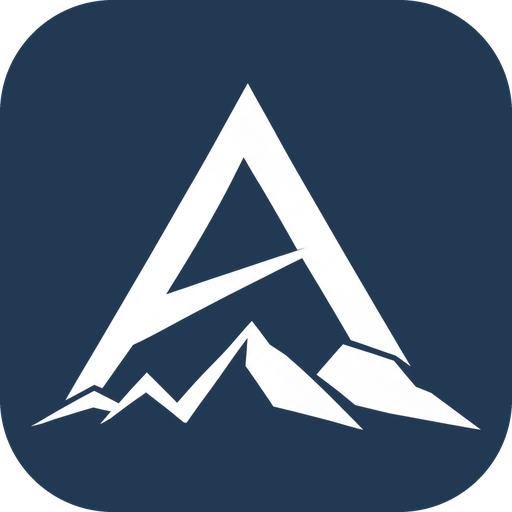
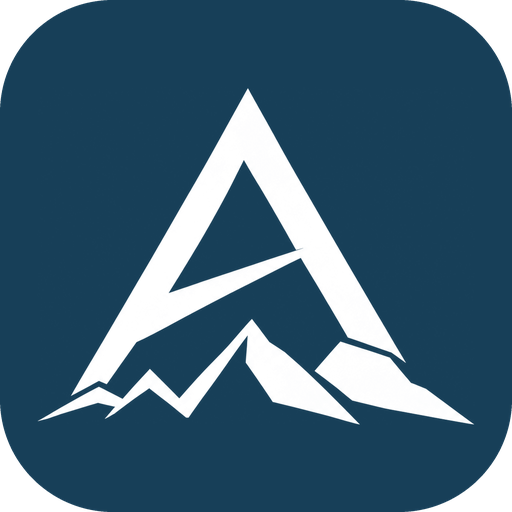
Apply Aventa brand guidelines and fix hero padding on mobile
Mobile fix: .hero used the padding shorthand (96px 0 88px), which
overrode the horizontal padding .wrap sets. On narrow screens the hero
kicker, headline, and lede ran flush to the left edge. Switched to
padding-top/padding-bottom so .wrap's 24px gutters survive.

Brand guidelines v1.0:

- Colors from section 04 - Aventa Navy #173F58, Aventa Sage #8A9B78,
  Ink #26343D, Mist #F3F5F4, Warm White #F7F4EE - replacing the ad hoc
  navy. White dominates, navy carries headings and anchor elements, sage
  appears only as a small accent on the service card icons.
- Type from section 05 - Montserrat (SemiBold headlines, Medium subheads)
  with Inter for body. Drops Fraunces, which the guide rules out.
- Nav now uses the real horizontal lockup at 183px wide, clearing the
  180px digital minimum, and falls back to the standalone mark in the
  compact mobile nav as section 06 directs. The previous nav retyped
  AVENTA in Inter, which section 05 forbids.
- Footer becomes an Aventa Navy field carrying the white reverse
  horizontal lockup; 404 page moves to Warm White with the stacked
  lockup at 200px wide.
- All logo artwork regenerated from the new masters in the guidelines
  package and recolored to the exact brand navy. Adds the horizontal
  lockup and wordmark assets; drops the sage lockup, which is not an
  approved configuration.

Contrast checked: all text pairs meet WCAG AA, and the sage icon chips
meet 3:1 for non-text.
[…]

diff --git a/index.html b/index.html
@@ -18,19 +18,23 @@
 <link rel="apple-touch-icon" href="/assets/apple-touch-icon.png">
 <link rel="preconnect" href="https://fonts.googleapis.com">
 <link rel="preconnect" href="https://fonts.gstatic.com" crossorigin>
-<link href="https://fonts.googleapis.com/css2?family=Fraunces:opsz,wght@9..144,450;9..144,560;9..144,640&family=Inter:wght@400;500;600&display=swap" rel="stylesheet">
+<link href="https://fonts.googleapis.com/css2?family=Inter:wght@400;500;600&family=Montserrat:wght@500;600&display=swap" rel="stylesheet">
 <style>
   :root{
-    --paper:#FAF8F4;
-    --ink:#17222E;
-    --muted:#5C6874;
-    --brand:#223954;
-    --brand-deep:#16273B;
-    --sage:#879476;
-    --tint:#EDF1F5;
-    --line:#E1DED6;
+    /* Brand palette — Aventa Consulting Brand Guidelines v1.0, section 04 */
+    --navy:#173F58;      /* Aventa Navy — primary identity, headings, dark fields */
+    --sage:#8A9B78;      /* Aventa Sage — accent, secondary graphics */
+    --ink:#26343D;       /* Ink — body text and utility copy */
+    --mist:#F3F5F4;      /* Mist — panels, dividers, quiet backgrounds */
+    --warm:#F7F4EE;      /* Warm White — optional editorial background */
+    /* derived working tones */
+    --paper:#FFFFFF;
+    --navy-deep:#0F2C40;
+    --muted:#5E6E77;
+    --line:#E4E9EA;
+    --on-navy:#C7D3DA;
     --max:1080px;
-    --serif:"Fraunces",Georgia,serif;
+    --display:"Montserrat",-apple-system,"Segoe UI",Arial,sans-serif;
     --sans:"Inter",-apple-system,BlinkMacSystemFont,"Segoe UI",sans-serif;
   }
   *{margin:0;padding:0;box-sizing:border-box}
@@ -38,29 +42,31 @@
   @media (prefers-reduced-motion:reduce){html{scroll-behavior:auto}}
   body{background:var(--paper);color:var(--ink);font-family:var(--sans);font-size:17px;line-height:1.65;-webkit-font-smoothing:antialiased}
   .wrap{max-width:var(--max);margin:0 auto;padding:0 24px}
-  h1,h2,h3{font-family:var(--serif);font-weight:560;letter-spacing:-0.01em;line-height:1.15}
-  a{color:var(--brand);text-decoration:none}
+  h1,h2{font-family:var(--display);font-weight:600;letter-spacing:-0.01em;line-height:1.2;color:var(--navy)}
+  h3{font-family:var(--display);font-weight:500;line-height:1.3;color:var(--navy)}
+  a{color:var(--navy);text-decoration:none}
   a:hover{text-decoration:underline}
  
   /* ---------- nav ---------- */
-  header{position:sticky;top:0;z-index:50;background:rgba(250,248,244,.92);backdrop-filter:blur(8px);border-bottom:1px solid var(--line)}
-  .nav{display:flex;align-items:center;justify-content:space-between;height:68px}
-  .logo{display:flex;align-items:center;gap:12px;color:var(--ink);text-decoration:none}
+  header{position:sticky;top:0;z-index:50;background:rgba(255,255,255,.92);backdrop-filter:blur(8px);border-bottom:1px solid var(--line)}
+  .nav{display:flex;align-items:center;justify-content:space-between;height:88px}
+  @media(max-width:720px){.nav{height:68px}}
+  .logo{display:flex;align-items:center;text-decoration:none}
   .logo:hover{text-decoration:none}
-  .logo img{height:34px;width:auto;flex:none;display:block}
-  .logo span{font-size:1.05rem;font-weight:500;letter-spacing:.24em;text-transform:uppercase;line-height:1}
-  @media(max-width:420px){.logo span{font-size:.95rem;letter-spacing:.18em}}
+  /* 183px wide clears the 180px digital minimum for the full lockup */
+  .logo img{height:55px;width:auto;flex:none;display:block}
+  @media(max-width:720px){.logo img{height:40px}}
   .nav-links{display:flex;align-items:center;gap:28px;font-size:.92rem;font-weight:500}
   .nav-links a:not(.btn){color:var(--ink)}
-  .nav-links a:not(.btn):hover{color:var(--brand);text-decoration:none}
-  .btn{display:inline-block;background:var(--brand);color:#fff;padding:11px 22px;border-radius:8px;font-weight:600;font-size:.95rem;border:none;cursor:pointer;transition:background .15s ease}
-  .btn:hover{background:var(--brand-deep);text-decoration:none}
+  .nav-links a:not(.btn):hover{color:var(--navy);text-decoration:none}
+  .btn{display:inline-block;background:var(--navy);color:#fff;padding:11px 22px;border-radius:8px;font-weight:600;font-size:.95rem;border:none;cursor:pointer;transition:background .15s ease}
+  .btn:hover{background:var(--navy-deep);text-decoration:none}
   .nav .btn{padding:9px 18px;font-size:.88rem}
   @media(max-width:720px){.nav-links a:not(.btn){display:none}}
  
   /* ---------- hero ---------- */
-  .hero{padding:96px 0 88px}
-  .kicker{display:inline-block;font-size:.8rem;font-weight:600;letter-spacing:.12em;text-transform:uppercase;color:var(--brand);margin-bottom:20px}
+  .hero{padding-top:96px;padding-bottom:88px}
+  .kicker{display:inline-block;font-size:.8rem;font-weight:600;letter-spacing:.12em;text-transform:uppercase;color:var(--navy);margin-bottom:20px}
   .hero h1{font-size:clamp(2.3rem,5.4vw,3.6rem);max-width:15ch}
   .hero p.lede{margin-top:24px;font-size:1.18rem;color:var(--muted);max-width:52ch}
   .hero-cta{margin-top:36px;display:flex;gap:16px;align-items:center;flex-wrap:wrap}
@@ -69,7 +75,7 @@
  
   /* ---------- sections ---------- */
   section{padding:84px 0}
-  .band{background:var(--tint)}
+  .band{background:var(--mist)}
   .sec-head{max-width:56ch;margin-bottom:48px}
   .sec-head h2{font-size:clamp(1.7rem,3.4vw,2.3rem)}
   .sec-head p{margin-top:14px;color:var(--muted)}
@@ -79,24 +85,24 @@
   .card{background:#fff;border:1px solid var(--line);border-radius:12px;padding:28px 26px}
   .card h3{font-size:1.18rem;margin-bottom:10px}
   .card p{font-size:.95rem;color:var(--muted)}
-  .card .glyph{width:38px;height:38px;border-radius:9px;background:var(--tint);color:var(--brand);display:flex;align-items:center;justify-content:center;margin-bottom:18px;font-size:1.1rem}
+  .card .glyph{width:38px;height:38px;border-radius:9px;background:var(--sage);color:var(--navy);display:flex;align-items:center;justify-content:center;margin-bottom:18px;font-size:1.1rem}
  
   /* approach */
   .steps{display:grid;grid-template-columns:repeat(auto-fit,minmax(240px,1fr));gap:20px;counter-reset:step}
-  .step{padding:28px 26px;border-left:2px solid var(--brand);background:#fff;border-radius:0 12px 12px 0}
-  .step .n{font-family:var(--serif);font-size:2rem;color:var(--brand);font-weight:560}
+  .step{padding:28px 26px;border-left:2px solid var(--navy);background:#fff;border-radius:0 12px 12px 0}
+  .step .n{font-family:var(--display);font-size:2rem;color:var(--navy);font-weight:600}
   .step h3{font-size:1.12rem;margin:8px 0 10px}
   .step p{font-size:.95rem;color:var(--muted)}
  
   /* about */
   .about{display:grid;grid-template-columns:280px 1fr;gap:56px;align-items:start}
   @media(max-width:760px){.about{grid-template-columns:1fr}}
-  .headshot{aspect-ratio:4/5;border-radius:12px;background:linear-gradient(160deg,var(--tint),#D9E2EC);border:1px solid var(--line);display:flex;align-items:center;justify-content:center;color:var(--muted);font-size:.85rem;text-align:center;padding:20px}
+  .headshot{aspect-ratio:4/5;border-radius:12px;background:linear-gradient(160deg,#FFFFFF,#E4EAEC);border:1px solid var(--line);display:flex;align-items:center;justify-content:center;color:var(--muted);font-size:.85rem;text-align:center;padding:20px}
   .about h2{font-size:clamp(1.7rem,3.4vw,2.3rem);margin-bottom:18px}
-  .about p{margin-bottom:16px;color:#39434F}
+  .about p{margin-bottom:16px;color:var(--ink)}
   .certs{margin-top:22px;display:flex;gap:10px;flex-wrap:wrap}
-  .cert{font-size:.8rem;font-weight:600;background:var(--tint);color:var(--brand-deep);border:1px solid #D3DDE7;border-radius:999px;padding:6px 14px}
-  .cert-soon{background:transparent;border-style:dashed;color:var(--muted)}
+  .cert{font-size:.8rem;font-weight:600;background:var(--mist);color:var(--navy);border:1px solid var(--line);border-radius:999px;padding:6px 14px}
+  .cert-soon{background:transparent;border-style:dashed;border-color:var(--sage);color:var(--muted)}
  
   /* contact */
   .contact-grid{display:grid;grid-template-columns:1fr 1.2fr;gap:56px}
@@ -108,16 +114,16 @@
   .field{display:grid;gap:6px}
   label{font-size:.85rem;font-weight:600}
   input,textarea{font-family:var(--sans);font-size:.95rem;padding:12px 14px;border:1px solid var(--line);border-radius:8px;background:#fff;color:var(--ink);width:100%}
-  input:focus,textarea:focus{outline:2px solid var(--brand);outline-offset:1px;border-color:transparent}
+  input:focus,textarea:focus{outline:2px solid var(--navy);outline-offset:1px;border-color:transparent}
   textarea{min-height:130px;resize:vertical}
   .row2{display:grid;grid-template-columns:1fr 1fr;gap:16px}
   @media(max-width:560px){.row2{grid-template-columns:1fr}}
   .form-note{font-size:.8rem;color:var(--muted)}
  
   /* footer */
-  footer{border-top:1px solid var(--line);padding:40px 0;font-size:.85rem;color:var(--muted)}
-  .foot{display:flex;justify-content:space-between;gap:24px;flex-wrap:wrap;align-items:center}
-  .foot-logo{height:88px;width:auto;display:block}
+  footer{background:var(--navy);color:var(--on-navy);padding:48px 0;font-size:.85rem}
+  .foot{display:flex;justify-content:space-between;gap:28px;flex-wrap:wrap;align-items:center}
+  .foot-logo{width:260px;max-width:100%;height:auto;display:block}
   .foot-meta{display:flex;flex-direction:column;gap:4px;text-align:right}
   @media(max-width:560px){.foot{flex-direction:column;align-items:flex-start}.foot-meta{text-align:left}}
 </style>
@@ -127,8 +133,10 @@
 <header>
   <div class="wrap nav">
     <a class="logo" href="#top" aria-label="Aventa Consulting home">
-      <img src="/assets/logo-mark.png" alt="" aria-hidden="true">
-      <span>Aventa</span>
+      <picture>
+        <source media="(min-width:721px)" srcset="/assets/logo-horizontal.png">
+        <img src="/assets/logo-mark.png" alt="" aria-hidden="true">
+      </picture>
     </a>
     <nav class="nav-links" aria-label="Primary">
       <a href="#services">Services</a>
@@ -283,7 +291,7 @@
  
 <footer>
   <div class="wrap foot">
-    <img class="foot-logo" src="/assets/logo-lockup.png" alt="Aventa Consulting" width="462" height="480">
+    <img class="foot-logo" src="/assets/logo-horizontal-light.png" alt="Aventa Consulting" width="900" height="271">
     <div class="foot-meta">
       <span>© 2026 Aventa Consulting LLC. All rights reserved.</span>
       <span>aventaconsulting.com</span>

diff --git a/404.html b/404.html
@@ -6,17 +6,17 @@
 <title>Page not found — Aventa Consulting</title>
 <link rel="icon" type="image/png" sizes="32x32" href="/assets/favicon-32.png">
 <link rel="icon" type="image/png" sizes="16x16" href="/assets/favicon-16.png">
-<link href="https://fonts.googleapis.com/css2?family=Fraunces:opsz,wght@9..144,560&family=Inter:wght@400;600&display=swap" rel="stylesheet">
+<link href="https://fonts.googleapis.com/css2?family=Inter:wght@400;600&family=Montserrat:wght@600&display=swap" rel="stylesheet">
 <style>
-  body{margin:0;min-height:100vh;display:flex;align-items:center;justify-content:center;background:#FAF8F4;color:#17222E;font-family:"Inter",sans-serif;text-align:center;padding:24px}
-  h1{font-family:"Fraunces",Georgia,serif;font-size:2.4rem;margin:0 0 12px}
-  p{color:#5C6874;margin:0 0 28px}
-  a{display:inline-block;background:#223954;color:#fff;padding:11px 22px;border-radius:8px;font-weight:600;text-decoration:none}
+  body{margin:0;min-height:100vh;display:flex;align-items:center;justify-content:center;background:#F7F4EE;color:#26343D;font-family:"Inter",sans-serif;text-align:center;padding:24px}
+  h1{font-family:"Montserrat",Arial,sans-serif;font-weight:600;font-size:2.2rem;color:#173F58;margin:0 0 12px}
+  p{color:#5E6E77;margin:0 0 28px}
+  a{display:inline-block;background:#173F58;color:#fff;padding:11px 22px;border-radius:8px;font-weight:600;text-decoration:none}
 </style>
 </head>
 <body>
 <div>
-  <img src="/assets/logo-lockup.png" alt="Aventa Consulting" style="height:150px;width:auto;margin:0 0 28px">
+  <img src="/assets/logo-lockup.png" alt="Aventa Consulting" style="width:200px;max-width:70vw;height:auto;margin:0 0 32px">
   <h1>That page doesn't exist.</h1>
   <p>Let's get you back somewhere useful.</p>
   <a href="/">Back to aventaconsulting.com</a>

diff --git a/README.md b/README.md
@@ -7,12 +7,22 @@ Public website for **Aventa Consulting LLC** — Salesforce consulting for growi
 - Static site, single `index.html` (all CSS inline). No build step, no dependencies.
 - Hosted free on **GitHub Pages**, deployed automatically from the `main` branch.
 - Custom domain via the `CNAME` file + DNS records at Porkbun (4 A records on the apex, `www` CNAME to `aventa-consulting-llc.github.io`).
-- Brand assets live in `/assets`, all derived from Krysten's logo files:
-  - `logo-lockup.png` / `-light` / `-sage` — full stacked lockup (navy, white-on-dark, sage), transparent background
-  - `logo-mark.png` / `-light` — the A/mountain mark on its own, used in the nav
-  - `favicon-16.png`, `favicon-32.png`, `apple-touch-icon.png`, `icon-512.png` — mark on a navy field
-  - `og-image.png` — 1200x630 social preview
-- Brand colors: navy `#223954` (primary), deep navy `#16273B` (hover), sage `#879476` (accent), paper `#FAF8F4`.
+- Brand follows **Aventa Consulting Brand Guidelines v1.0 (Aug 2026)**. Keep changes inside that system.
+- Brand assets in `/assets`, all derived from Krysten's master logo files:
+  - `logo-horizontal.png` / `-light` — mark left, wordmark right. Nav (desktop) and footer.
+  - `logo-lockup.png` / `-light` — primary stacked lockup. 404 page, social card.
+  - `logo-mark.png` / `-light` — A/mountain only. Compact nav (mobile), icons.
+  - `logo-wordmark.png` — wordmark + rules only, for low-height spaces.
+  - `favicon-16/32.png`, `apple-touch-icon.png`, `icon-512.png` — reverse mark on navy.
+  - `og-image.png` — 1200x630 social card on Warm White.
+- Colors (guidelines section 04): Aventa Navy `#173F58`, Aventa Sage `#8A9B78` (accent only),
+  Ink `#26343D`, Mist `#F3F5F4`, Warm White `#F7F4EE`. Working tones derived for hover
+  (`#0F2C40`), secondary text (`#5E6E77`), and dividers (`#E4E9EA`).
+- Type (section 05): Montserrat SemiBold headlines / Medium subheads, Inter body. The logo
+  lettering is artwork and must never be retyped.
+- Logo rules (section 03-04): full lockup stays at least 180px wide; below that use the
+  standalone mark. White reverse logo only on navy or another sufficiently dark field.
+  No stretching, rotating, recoloring facets, or altering letter spacing.
 - Contact form posts to **Formspree** (free tier). The form `action` in `index.html` must contain the real Formspree form ID.
 
 ## Making changes
